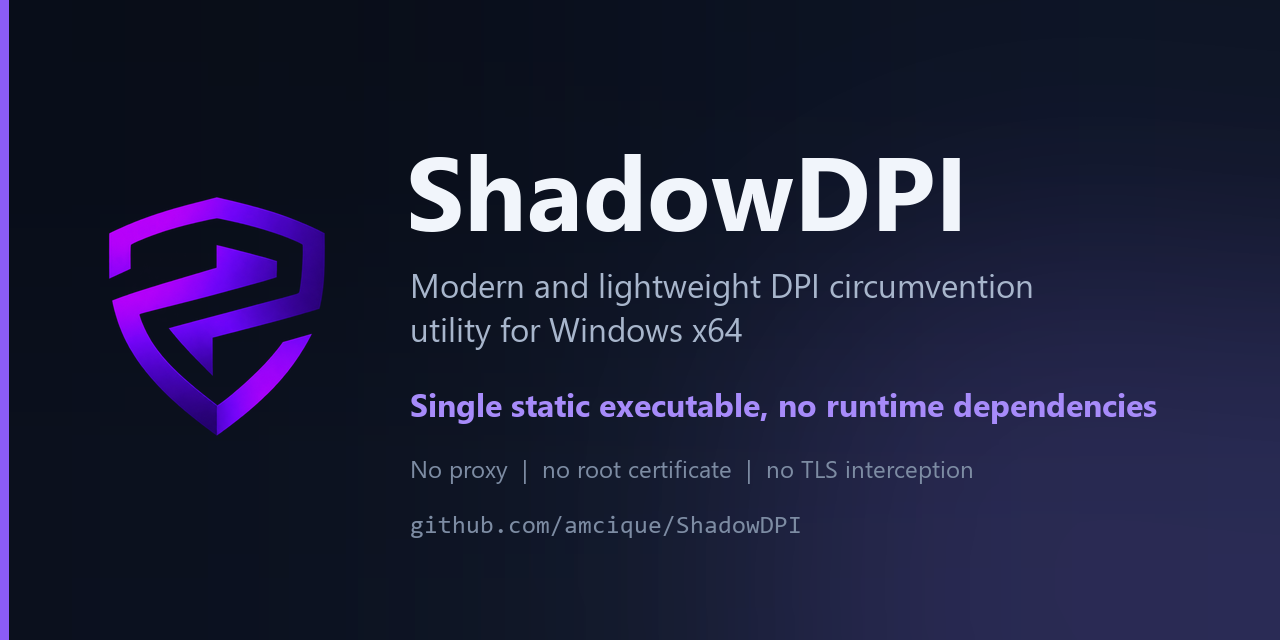
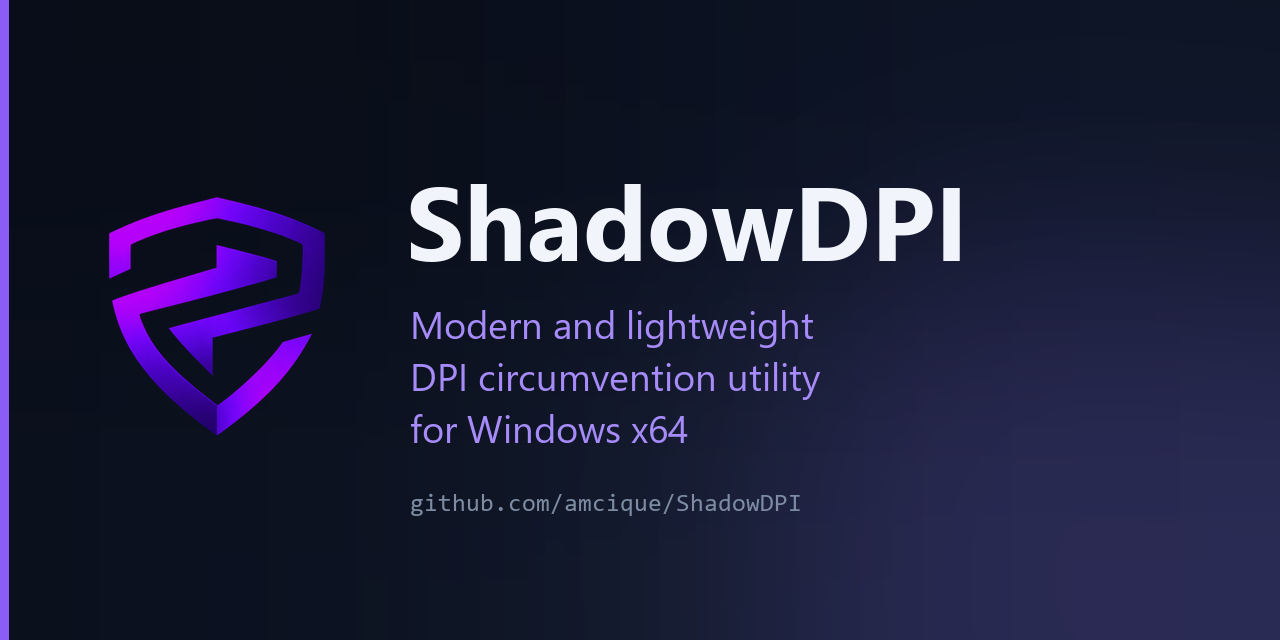
Cut the negations slogan from the pitch
The hero repeated the same three negations in all three languages, in the repository description, and on the social card, which is the kind of rhythmic triple that reads as generated copy. The only pitch is now the product sentence.

The facts still appear where they answer a question: the transparency bullet, the FAQ entry about decryption, and the security notes. They are written as prose there instead of as a list.

Changed region(s): [[0.3125, 0.2188, 0.9062, 0.6875], [0.3125, 0.7188, 0.75, 0.8438]]

diff --git a/README.tr.md b/README.tr.md
@@ -5,8 +5,7 @@
 <h1 align="center">ShadowDPI</h1>
 
 <p align="center">
-  <strong>Windows x64 için modern ve hafif DPI atlatma aracı.</strong><br>
-  Proxy yok. Kök sertifika yok. TLS müdahalesi yok. Tek bir C++20 çalıştırılabilir dosya.
+  <strong>Windows x64 için modern ve hafif DPI atlatma aracı.</strong>
 </p>
 
 <p align="center">
@@ -22,9 +21,8 @@
 
 ShadowDPI, Windows ile ağ arasına girer ve bir bağlantının ilk paketlerini
 yeniden yazarak DPI cihazlarının bağlantıyı sınıflandırmasını engeller. WinDivert
-üzerinde kullanıcı alanında çalışır; proxy yapılandırması gerektirmez, kök
-sertifika kurmaz ve TLS trafiğini sonlandırmaz. Uygulamalar gerçek hedefle
-konuşmaya devam eder.
+üzerinde kullanıcı alanında çalışır; bu yüzden trafik uçtan uca şifreli kalır ve
+uygulamalar gerçek hedefle konuşmaya devam eder.
 
 GoodbyeDPI tarafından yaygınlaştırılan tekniklerin sıfırdan yazılmış bir C++20
 uygulamasıdır. Tek bir statik çalıştırılabilir dosyadır ve çalışma zamanı
@@ -77,8 +75,8 @@ sürümleri uyumlu kalsın.
   500-810 kat daha az CPU. Daha hafif iş yüklerinde 2-75 kat, aktarılan bayt
   başına 67,8 kat. Bu, makinedeki yönlendiriciler, VPN'ler ve diğer yazılımlar
   için alan bırakır.
-- **Yapısı gereği şeffaf.** Proxy ayarı, PAC dosyası, sertifika deposu
-  değişikliği yok. ShadowDPI durursa uygulamalar çalışmaya devam eder.
+- **Yapısı gereği şeffaf.** ShadowDPI durursa uygulamalar çalışmaya devam eder;
+  sertifika deposuna hiçbir şey kurulmaz ve proxy ayarları değişmez.
 - **Yalnızca hazır ayarlar değil, strateji tarayıcısı da var.** DPI sağlayıcıya
   göre değişir ve zamanla güncellenir. `install.ps1 -Action scan` hazır ayarları
   ve seçenek birleşimlerini kendi URL listenizde dener, engellenen her adresi

diff --git a/README.md b/README.md
@@ -5,8 +5,7 @@
 <h1 align="center">ShadowDPI</h1>
 
 <p align="center">
-  <strong>Modern and lightweight DPI circumvention utility for Windows x64.</strong><br>
-  No proxy. No root certificate. No TLS interception. One C++20 executable.
+  <strong>Modern and lightweight DPI circumvention utility for Windows x64.</strong>
 </p>
 
 <p align="center">
@@ -23,9 +22,8 @@
 
 ShadowDPI sits between Windows and the network and rewrites the opening packets
 of a connection so that DPI equipment cannot classify it. It runs in user space
-on top of WinDivert, needs no proxy configuration, installs no root
-certificate, and never terminates TLS. Applications keep talking to the real
-destination.
+on top of WinDivert, so traffic stays encrypted end to end and applications keep
+talking to the real destination.
 
 It is a from-scratch C++20 implementation of the techniques popularised by
 [GoodbyeDPI](https://github.com/ValdikSS/GoodbyeDPI). It is one static executable
@@ -76,8 +74,9 @@ updating by hand, replace `shadowdpi.exe`, `WinDivert.dll`, and
   link, and 500-810× less CPU than GoodbyeDPI on bulk HTTPS transfers. Lighter
   workloads show 2-75×, 67.8× aggregated by bytes transferred. That leaves
   headroom for routers, VPNs, and everything else on the machine.
-- **Transparent by construction.** No proxy settings, no PAC file, no
-  certificate store changes. If ShadowDPI stops, applications keep working.
+- **Transparent by construction.** If ShadowDPI stops, applications keep
+  working; nothing is installed into the certificate store and no proxy settings
+  change.
 - **A strategy scanner, not just presets.** DPI differs per provider and changes
   over time. `install.ps1 -Action scan` tests presets and option combinations
   against your own URL list and reports the first one that recovers everything.
